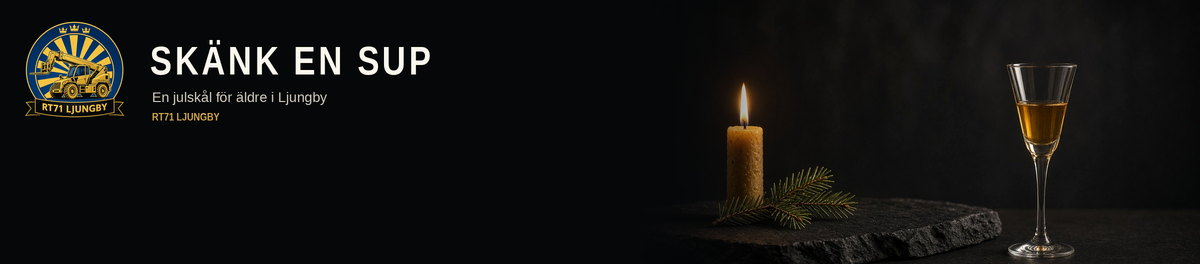
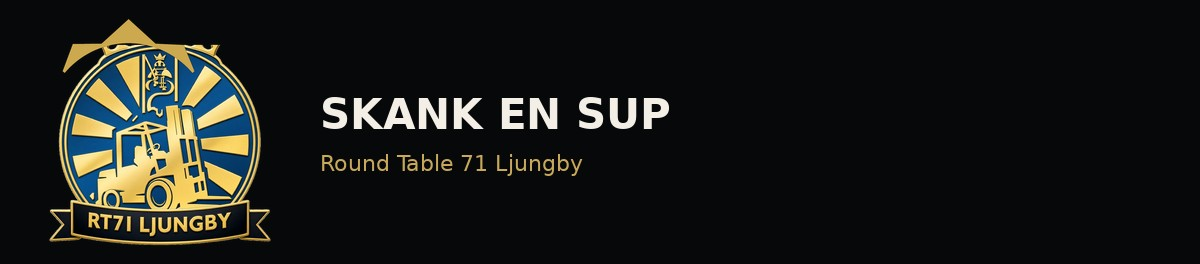
Publicera RT71-loggan med tre taktoppar och hel truck som visningsbild
Loggan har trucken, tre tak på cirkeln och RT71 LJUNGBY.
Delningsbilden visar hela märket, inte en beskärning.

diff --git a/src/routes/__root.tsx b/src/routes/__root.tsx
@@ -7,7 +7,7 @@ const APP_NAME = "Skänk en sup | RT71 Ljungby";
 const DESCRIPTION =
   "En julskål för äldre i Ljungby. Round Table 71 Ljungby samlar in till en julsnaps. Skänk en sup.";
 const SITE_URL = "https://ensup.se/";
-const OG_IMAGE = "https://ensup.se/og.jpg";
+const OG_IMAGE = "https://ensup.se/og-share.jpg";
 
 export const Route = createRootRoute({
   head: () => ({

diff --git a/src/lib/campaign.ts b/src/lib/campaign.ts
@@ -28,7 +28,7 @@ export const campaign = {
   motto: ["Upptaga", "Anpassa", "Förbättra"] as const,
 
   logos: {
-    rt71: "/brand/rt71-hus.png",
+    rt71: "/brand/rt71.png",
     rtSweden: "/brand/rt-sweden.jpg",
     swishQr: "/brand/swish/open.png",
   },
